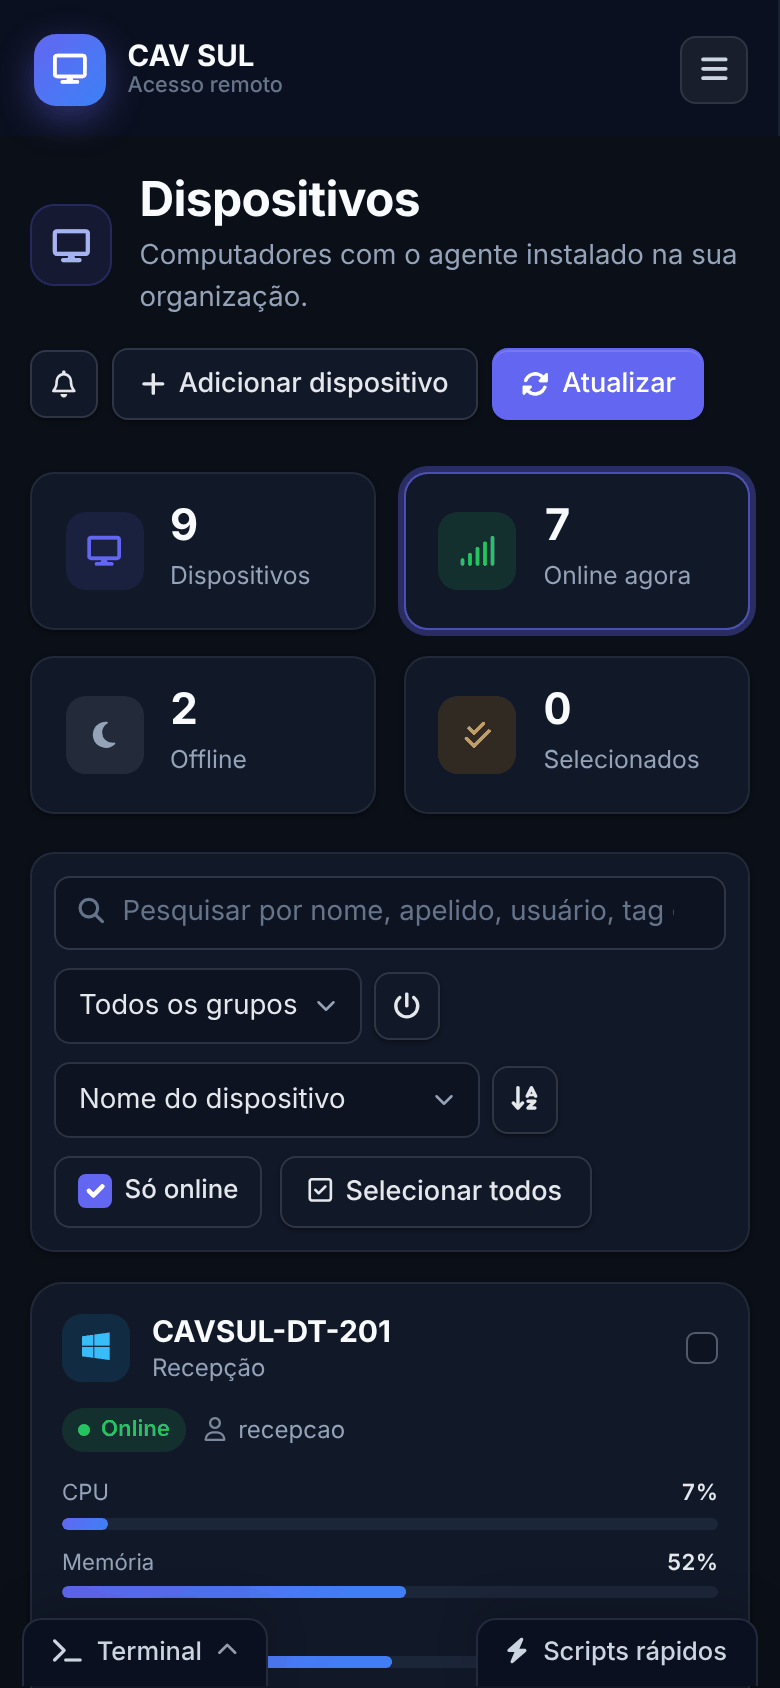
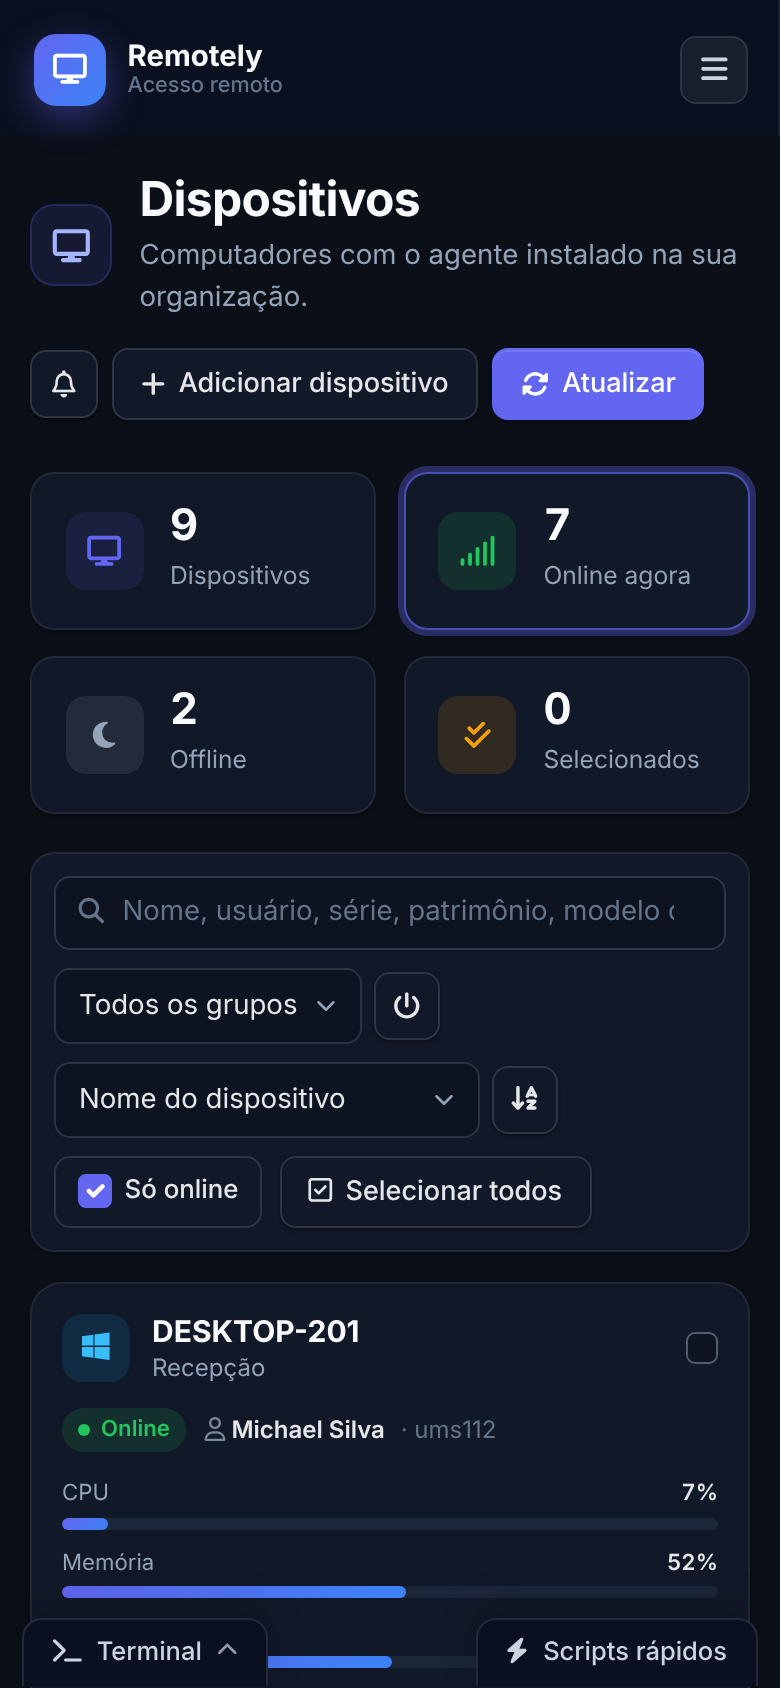
README com imagens novas do inventário e dados de exemplo com o nome Remotely
- Capturas refeitas: dispositivos, card aberto, detalhes, inventário, softwares, configuração, organização, login, tema claro, Swagger e celular
- Exemplos sem referências à CAV SUL (organização Remotely, dispositivos e e-mails genéricos)
- Placeholder da Personalização sem o nome da empresa

diff --git a/README.md b/README.md
@@ -13,32 +13,47 @@ Este repositório é um fork do [immense/Remotely](https://github.com/immense/Re
 
 <table>
   <tr>
-    <td><img src=".github/media/dispositivo-aberto.png" alt="Card do dispositivo aberto com inventário e ações" /></td>
-    <td><img src=".github/media/configuracoes.png" alt="Configuração do servidor organizada por seções" /></td>
+    <td><img src=".github/media/inventario.png" alt="Aba Inventário com firmware, placa-mãe, processadores e memórias" /></td>
+    <td><img src=".github/media/detalhes.png" alt="Detalhes do dispositivo com tipo, fabricante, modelo, série, patrimônio e localização" /></td>
   </tr>
   <tr>
-    <td align="center">Card aberto: inventário, ações e identificação</td>
+    <td align="center">Inventário: componentes, volumes, softwares, rede e antivírus</td>
+    <td align="center">Detalhes: série, UUID, patrimônio e localização</td>
+  </tr>
+  <tr>
+    <td><img src=".github/media/inventario-softwares.png" alt="Softwares instalados com busca" /></td>
+    <td><img src=".github/media/dispositivo-aberto.png" alt="Card do dispositivo aberto com ações e identificação" /></td>
+  </tr>
+  <tr>
+    <td align="center">Softwares instalados, com busca</td>
+    <td align="center">Card aberto: ações, equipamento e identificação</td>
+  </tr>
+  <tr>
+    <td><img src=".github/media/configuracoes.png" alt="Configuração do servidor organizada por seções" /></td>
+    <td><img src=".github/media/organizacao.png" alt="Organização, grupos, usuários e perfis de acesso" /></td>
+  </tr>
+  <tr>
     <td align="center">Configuração do servidor por seções</td>
+    <td align="center">Organização, grupos, usuários e perfis de acesso</td>
   </tr>
   <tr>
     <td><img src=".github/media/login.png" alt="Tela de login" /></td>
     <td><img src=".github/media/tema-claro.png" alt="Tema claro" /></td>
   </tr>
   <tr>
-    <td align="center">Login</td>
+    <td align="center">Login com downloads do cliente de suporte</td>
     <td align="center">Tema claro</td>
   </tr>
   <tr>
-    <td><img src=".github/media/organizacao.png" alt="Organização, grupos, usuários e convites" /></td>
     <td><img src=".github/media/swagger.png" alt="Documentação da API no Swagger" /></td>
+    <td align="center"><img src=".github/media/celular.png" alt="Tela no celular" width="260" /></td>
   </tr>
   <tr>
-    <td align="center">Organização, grupos e usuários</td>
     <td align="center">API documentada no Swagger</td>
+    <td align="center">No celular</td>
   </tr>
 </table>
 
-<p align="center"><img src=".github/media/celular.png" alt="Tela no celular" width="260" /></p>
 
 ## O que muda neste fork
 
